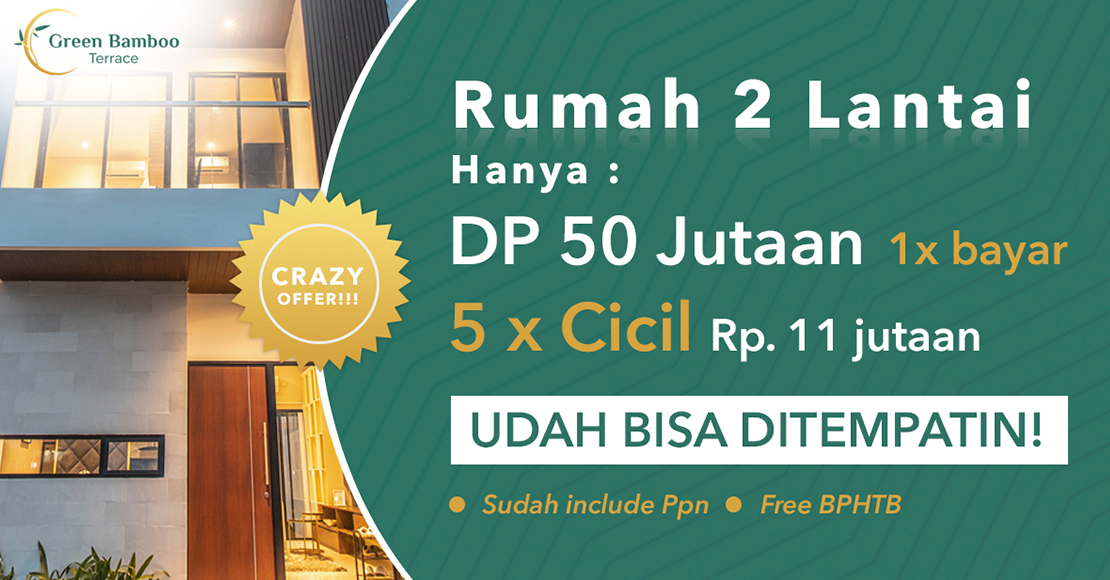
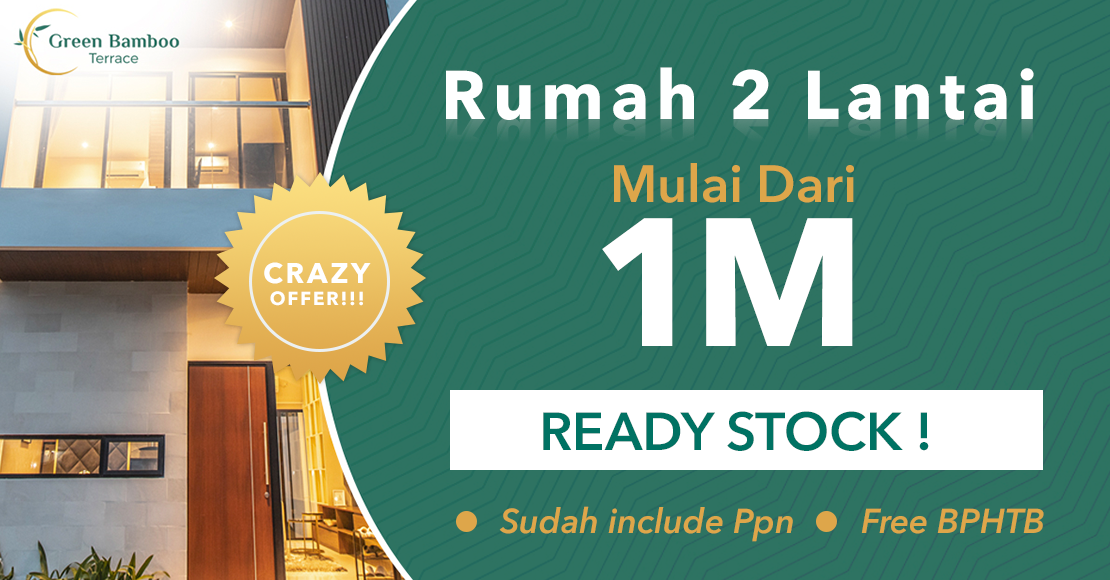
update fe - index: - replace image in slider with the updated one - change slider interval to 7s

Changed region(s): [[0.1838, 0.1241, 0.9802, 0.6517], [0.3982, 0.6517, 0.9802, 0.931]]

diff --git a/apps/views/pages/index.php b/apps/views/pages/index.php
@@ -9,7 +9,7 @@ defined('BASEPATH') OR exit('No direct script access allowed');
 <div style="padding-top: 105px; background-color: #fff;">
   <section class="home-section">
     <div style="position: relative;" class="container">
-      <div id="banner-top-page" class="carousel slide" data-ride="carousel">
+      <div id="banner-top-page" class="carousel slide" data-ride="carousel" data-interval="7000">
         <ol class="side-indicators carousel-indicators">
           <li data-target="#banner-top-page" data-slide-to="0" class="active"></li>
           <li data-target="#banner-top-page" data-slide-to="1"></li>
